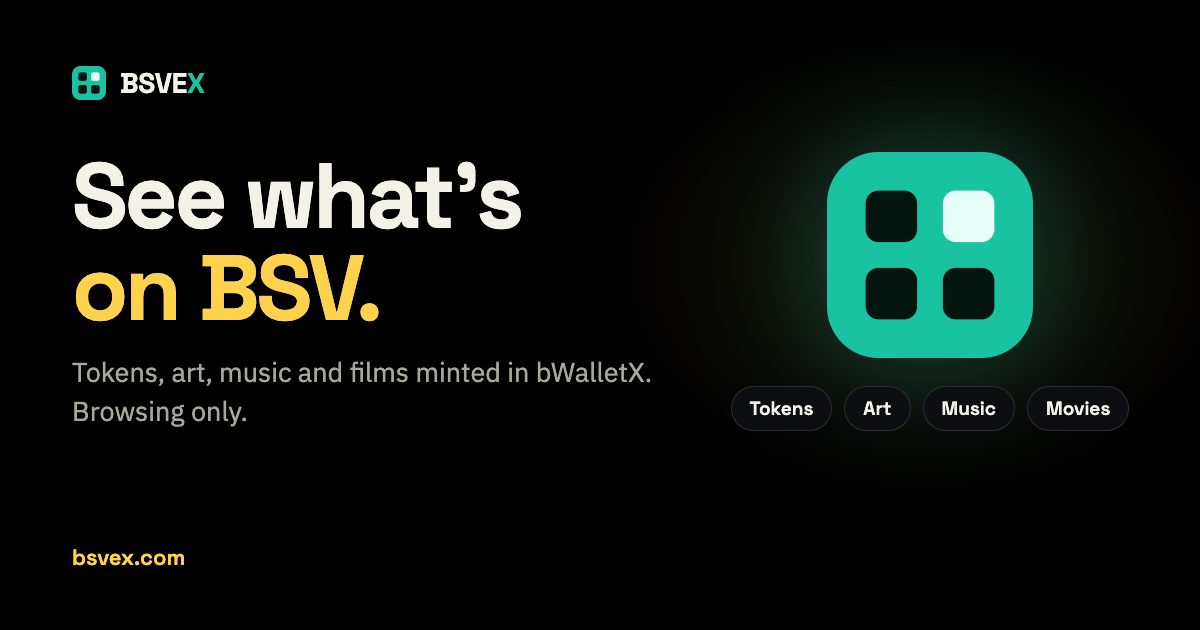
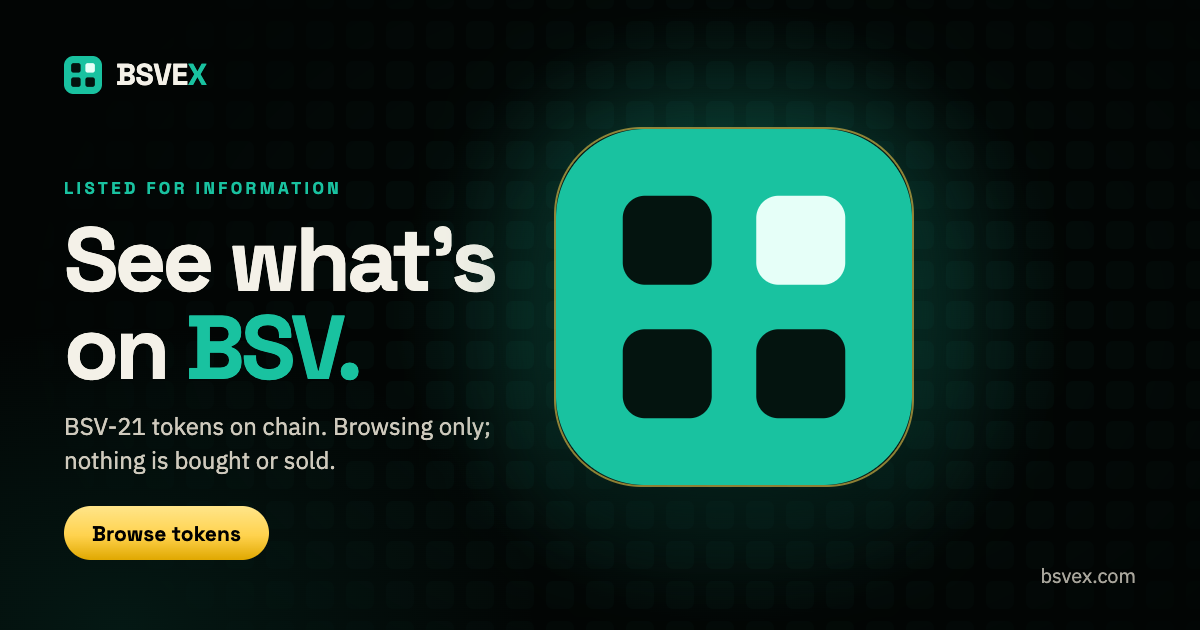
bsvex.com: CEO hide rulings, hide by deploy key, share card review
- Hide 402, $INDEXTOKEN, TERANODE, Bitcoin, BSV, Petition4Craig, NUSD and
  TARD. 1SAT and MNEE stay visible (issuers' own tokens, for information).
- Hide by deploy key, as data: HIDDEN_DEPLOY_KEYS (group key 023ac31e...,
  which deployed $BOASE and siblings) and a separate THIRD_PARTY_HIDDEN_KEYS
  (032a8eb0..., third party, not group (RB, 2 Nov 2026): CHERRY, Genshin
  Impact, Nikola Jokic, BSV, DOOKIE). Deploy signers come from WhatsOnChain;
  only the small per-tx result is cached (a day), never the large raw txs.
- CHERRY moves from the group list to third-party brands.
- Tokens listed: 106 -> 97.
- Share card redesigned to pass the share-card review: eyebrow "Listed for
  information", one action, tile texture, larger mark that survives the square
  centre crop, no not-yet-live categories. Canonical URL added.

diff --git a/src/lib/market.ts b/src/lib/market.ts
@@ -1,13 +1,14 @@
 /**
  * Read-only token data from the public 1Sat index (api.1sat.app), refreshed every 5 min, plus each token's deploy time
- * from WhatsOnChain's public API. Nothing here trades and no prices or sales are shown (CEO copy ruling, 2 Nov 2026:
+ * and deploy signer from WhatsOnChain's public API. Nothing here trades and no prices or sales are shown (CEO copy ruling, 2 Nov 2026:
  * bitcoin-corp/legal/BSVEX-COPY-RULING-2026-11-02.md). Third-party pictures are never shown (no safety scan yet), only
  * names, dates and ids.
  */
-import { isHidden } from "./hidden";
+import { unstable_cache } from "next/cache";
+import { isHidden, isHiddenDeployer } from "./hidden";
 
 const API = "https://api.1sat.app/1sat";
-const WOC_STATUS = "https://api.whatsonchain.com/v1/bsv/main/txs/status"; // up to 20 txids per call
+const WOC_TXS = "https://api.whatsonchain.com/v1/bsv/main/txs"; // decoded txs, up to 20 txids per call
 
 /** at: deploy block time in ms, 0 if unknown (unconfirmed or the lookup failed). */
 export type Token = { id: string; symbol: string; at: number };
@@ -30,22 +31,40 @@ type RawToken = { token_id: string; symbol?: string; is_blacklisted?: boolean };
 const RUDE = /f[u#*@]ck|sh[i1!]t|c[u*]nt|b[i1]tch|n[i1]gg|wh[o0]re|p[o0]rn|dick|pussy|cock/i;
 const clean = (name: string) => !RUDE.test(name.replace(/[•·._\s-]/g, ""));
 
-/** Deploy times for the "Newest" sort. 1Sat's list isn't in date order, so we ask WhatsOnChain (20 txids a call). */
-async function deployTimes(txids: string[]): Promise<Map<string, number>> {
-  const out = new Map<string, number>();
-  for (let i = 0; i < txids.length; i += 20) {
+type Deploy = { at: number; keys: string[] }; // block time in ms (0 if unconfirmed); public keys that signed its inputs
+type RawTx = { txid: string; blocktime?: number; vin?: Array<{ scriptSig?: { asm?: string } }> };
+
+/**
+ * Deploy time (for "Newest") and deploy signers (for HIDDEN_DEPLOY_KEYS) of up to 20 deploy txs. Full decoded txs can
+ * be large (inscriptions), so the raw responses are never cached; only this small result is, for a day (deploy txs
+ * don't change). Throws on failure so a failed lookup isn't cached.
+ */
+const deployChunk = unstable_cache(
+  async (txids: string[]): Promise<Record<string, Deploy>> => {
+    const r = await fetch(WOC_TXS, { method: "POST", headers: { "content-type": "application/json" }, body: JSON.stringify({ txids }), cache: "no-store" });
+    if (!r.ok) throw new Error(`WhatsOnChain ${r.status}`);
+    const out: Record<string, Deploy> = {};
+    for (const tx of (await r.json()) as RawTx[]) {
+      const keys = (tx.vin ?? [])
+        .map((v) => (v.scriptSig?.asm ?? "").split(" ").pop() ?? "")
+        .filter((k) => /^(0[23][0-9a-f]{64}|04[0-9a-f]{128})$/i.test(k)); // P2PKH unlock: last push is the public key
+      out[tx.txid] = { at: tx.blocktime ? tx.blocktime * 1000 : 0, keys: [...new Set(keys)] };
+    }
+    return out;
+  },
+  ["bsvex-deploy-v1"],
+  { revalidate: 86400 },
+);
+
+async function deploys(txids: string[]): Promise<Map<string, Deploy>> {
+  const out = new Map<string, Deploy>();
+  const sorted = [...txids].sort(); // stable chunks, so cache keys repeat between runs
+  for (let i = 0; i < sorted.length; i += 20) {
     if (i) await new Promise((r) => setTimeout(r, 350)); // stay under WoC's 3 requests/second
     try {
-      const r = await fetch(WOC_STATUS, {
-        method: "POST",
-        headers: { "content-type": "application/json" },
-        body: JSON.stringify({ txids: txids.slice(i, i + 20) }),
-        next: { revalidate: 3600 },
-      });
-      if (!r.ok) continue;
-      for (const s of (await r.json()) as Array<{ txid: string; blocktime?: number }>) if (s.blocktime) out.set(s.txid, s.blocktime * 1000);
+      for (const [id, d] of Object.entries(await deployChunk(sorted.slice(i, i + 20)))) out.set(id, d);
     } catch {
-      // leave these unknown; they sort last under "Newest"
+      // unknown: no date (sorts last under "Newest") and no signer check; group tickers are still hidden by name
     }
   }
   return out;
@@ -54,6 +73,9 @@ async function deployTimes(txids: string[]): Promise<Map<string, number>> {
 export async function getTokens(): Promise<Token[]> {
   const raw = (await get<RawToken[]>("/bsv21/tokens?limit=200")) ?? [];
   const shown = raw.filter((t) => t.symbol && !t.is_blacklisted && clean(t.symbol) && !isHidden(t.symbol));
-  const times = await deployTimes([...new Set(shown.map((t) => t.token_id.split("_")[0]))]);
-  return shown.map((t) => ({ id: t.token_id, symbol: t.symbol!.trim().slice(0, 32), at: times.get(t.token_id.split("_")[0]) ?? 0 }));
+  const info = await deploys([...new Set(shown.map((t) => t.token_id.split("_")[0]))]);
+  return shown
+    .map((t) => ({ t, d: info.get(t.token_id.split("_")[0]) }))
+    .filter(({ d }) => !d || !isHiddenDeployer(d.keys))
+    .map(({ t, d }) => ({ id: t.token_id, symbol: t.symbol!.trim().slice(0, 32), at: d?.at ?? 0 }));
 }

diff --git a/src/lib/hidden.ts b/src/lib/hidden.ts
@@ -8,30 +8,42 @@
 // Hide: third-party brands, real people, weapons, anything implying official or state backing, test tokens, and our
 // own group's tokens (bCorp/NPG; a group company listing its own tokens on its own board reads as self-promotion).
 // Legal ruling: CEO 2 Nov 2026.
+// Group tokens are hidden two ways: by ticker (below) and by deploy key (HIDDEN_DEPLOY_KEYS), so anything a group key
+// deploys later is hidden automatically. Third-party keys that deploy brand / real-person names are hidden by key too,
+// in a SEPARATE list (THIRD_PARTY_HIDDEN_KEYS); never mix them up with group keys. Issuers' own tokens (e.g. 1SAT,
+// MNEE) stay visible, listed for information.
 export const HIDDEN_TICKERS = [
   // Third-party brands
   "NIKE•AIR•MAX",
   "Genshin Impact",
   "YOURS.ORG",
+  "TERANODE",
+  // CHERRY: third party, not group (RB, 2 Nov 2026). Not our CherryX venture's token; hidden as a brand name.
+  "CHERRY",
   // Real people
   "Nikola Jokić",
   "ELON",
+  "Petition4Craig",
   // Weapons
   "AK47",
   "BSVGUN",
   // Implies official or state backing
   "Strategic Bitcoin SV Reserve",
+  "Bitcoin",
+  "BSV",
+  "NUSD",
   // Abusive or misleading
   "SCAM",
   "PSYOP",
   "TERRORNODE",
+  "TARD",
   // Test tokens
   "test",
   "TESTY",
   "VESTTEST",
   "TBTEST",
   "SPTEST",
-  // Our own group (bCorp/NPG). Same deploy key as $BOASE:
+  // Our own group (bCorp/NPG). Deployed by a group key (also caught by HIDDEN_DEPLOY_KEYS):
   "$BOASE",
   "$NINJAPUNKGIRLS",
   "$bWriter",
@@ -47,10 +59,32 @@ export const HIDDEN_TICKERS = [
   "RICHARDWBOASE",
   "VEXVOID",
   "$NERD",
-  "CHERRY",
+  "402",
+  "$INDEXTOKEN",
+] as const;
+
+/**
+ * Group deploy keys (bCorp/NPG): any BSV-21 token whose deploy transaction has an input signed by one of these public
+ * keys is hidden, now and in future. Public keys only, read from public chain data; no secrets.
+ */
+export const HIDDEN_DEPLOY_KEYS = [
+  // 13TKx3GpyugVsbFbfNbWiEDG1peNGWWFEn: deployed $BOASE, $NINJAPUNKGIRLS (x2), $bWriter, $1SHOT, $BOARDROOM, 1FeeX, PATH402.com
[1 lines of base64/hex data omitted]
 ] as const;
 
 const norm = (s: string) => s.normalize("NFC").trim().toLowerCase().replace(/[•·._\s-]/g, "");
 const HIDDEN = new Set<string>(HIDDEN_TICKERS.map(norm));
 
+/**
+ * Third-party deploy keys hidden under the brand / real-person rule. NOT group keys. Public keys only.
+ */
+export const THIRD_PARTY_HIDDEN_KEYS = [
+  // Third party, not group (RB, 2 Nov 2026). 124D8P18AsJvmFAUSNnhwB5qC3CLfgsbK7: deployed CHERRY, Genshin Impact,
+  // Nikola Jokić (x2), BSV and DOOKIE.
[1 lines of base64/hex data omitted]
+] as const;
+
 export const isHidden = (ticker: string) => HIDDEN.has(norm(ticker));
+
+const KEYS = new Set<string>([...HIDDEN_DEPLOY_KEYS, ...THIRD_PARTY_HIDDEN_KEYS].map((k) => k.toLowerCase()));
+export const isHiddenDeployer = (keys: readonly string[]) => keys.some((k) => KEYS.has(k.toLowerCase()));

diff --git a/src/app/layout.tsx b/src/app/layout.tsx
@@ -5,6 +5,7 @@ export const metadata: Metadata = {
   title: "BSVEX",
   description: "See what’s on BSV: tokens, art, music and films minted in bWalletX. Browsing only. Nothing is bought or sold on this site.",
   metadataBase: new URL("https://www.bsvex.com"),
+  alternates: { canonical: "/" },
   openGraph: { title: "BSVEX", description: "See what’s on BSV: tokens, art, music and films minted in bWalletX. Browsing only. Nothing is bought or sold on this site.", url: "/" },
   twitter: { card: "summary_large_image", title: "BSVEX", description: "See what’s on BSV: tokens, art, music and films minted in bWalletX. Browsing only. Nothing is bought or sold on this site." },
   robots: { index: true, follow: true },
